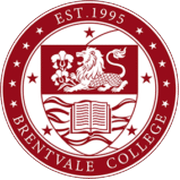
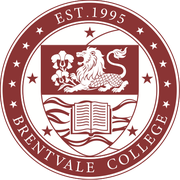
页脚改用官方反白标识，去掉承托底过渡方案
收到官方品牌规范矢量原件（BCI SVG.pdf），其中含红版与反白版完整锁定图，
据此补齐此前缺失的两个反白资产，页脚恢复 ideas.md 原本规定的做法。

- 新增 bci-logo-horizontal-white.png 与 bci-crest-white.png
- bci-logo-horizontal.png 与 bci-crest.png 改由同一份矢量原件导出，笔画更完整
- Brand.tsx 恢复 light/dark 双版本切换，移除浅色承托底
- ideas.md 补一条规则：深色底必须用官方反白版，不得以 CSS 反相代替

四个资产均只做裁切与透明通道处理，未重绘任何笔画。

diff --git a/client/src/components/Brand.tsx b/client/src/components/Brand.tsx
@@ -25,16 +25,14 @@ import { saveRecentTool } from "@/lib/recent";
  * 品牌资产收进仓库（client/public/brand），不再依赖外部存储，
  * 本地开发、离线与自建部署下都能正常显示。
  *
- * 两个文件同源：bci-logo-horizontal.png 为官方横版锁定图原件，
- * bci-crest.png 由同一份原件左段裁切而来，只裁不改，未重绘任何笔画。
- *
- * 深色底（页脚）尚无官方反白版本。反相红色版会把徽章内部的盾徽与书页
- * 一并压成白块，属于改绘官方标识，故改以浅色承托底盛放原件——
- * 拿到官方反白文件后，把它放进同一目录并在此处改回两个常量即可，
- * 同时移除下方的 plate 承托样式。
+ * 四个文件同源，均由官方品牌规范矢量原件（BCI SVG.pdf）导出：
+ * 红版用于纸感浅底，反白版用于深墨绿页脚等深色底。
+ * 一律只做裁切与透明通道处理，未重绘任何笔画，也不以反相代替官方反白版。
  */
 const LOGO_RED = "/brand/bci-logo-horizontal.png";
+const LOGO_WHITE = "/brand/bci-logo-horizontal-white.png";
 const CREST_RED = "/brand/bci-crest.png";
+const CREST_WHITE = "/brand/bci-crest-white.png";
 
 export function Wordmark({
   variant = "dark",
@@ -51,13 +49,9 @@ export function Wordmark({
     return (
       <span className="flex min-w-0 items-center gap-2.5 sm:gap-3" title={t(`博林国际学院 · ${fullName}`, fullName)}>
         <img
-          src={CREST_RED}
+          src={light ? CREST_WHITE : CREST_RED}
           alt="Brentvale College"
-          className={cn(
-            "h-8 w-8 shrink-0 object-contain sm:h-9 sm:w-9",
-            // 深色底：以浅色承托底盛放官方原件，不反相、不改绘
-            light && "rounded-full bg-paper p-0.5",
-          )}
+          className="h-8 w-8 shrink-0 object-contain sm:h-9 sm:w-9"
         />
         <span className="min-w-0 border-l border-brass/60 pl-2.5 sm:pl-3">
           <span
@@ -81,13 +75,9 @@ export function Wordmark({
   return (
     <span className="flex items-center gap-3.5" title={t(`博林国际学院 · ${fullName}`, fullName)}>
       <img
-        src={LOGO_RED}
+        src={light ? LOGO_WHITE : LOGO_RED}
         alt="Brentvale College International"
-        className={cn(
-          "h-10 w-auto shrink-0 object-contain sm:h-11",
-          // 深色底：同上，承托而非反相
-          light && "rounded-sm bg-paper px-2 py-1",
-        )}
+        className="h-10 w-auto shrink-0 object-contain sm:h-11"
       />
       <span
         className={cn(
